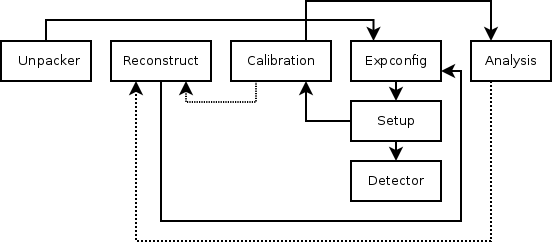
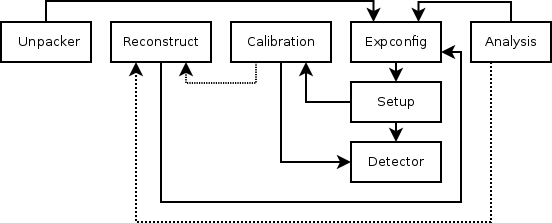
Doc: Update library dependencies

diff --git a/README.md b/README.md
@@ -83,12 +83,15 @@ project.
 
 ## Library organization
 
-Due to the fact that calibration modules are also analyses, and
-analyses should not know anything about detectors anymore (data
-structures should be such that you work with high-level data), the
-linking of (solid arrows) and the include (dashed arrows) looks like this:
+The calibration modules specify physics classes, usually below
+`src/analysis/physics/calibration`, which produce the histograms used
+in the GUI part of the module. Furthermore, the analysis classes can
+access all information organized in `expconfig`.
 
 <img src="doc/library-dependencies.png">
+
+The solid arrows mean "links to", whereas the dashed arrows means
+"includes only".
 
 ## Development
 
